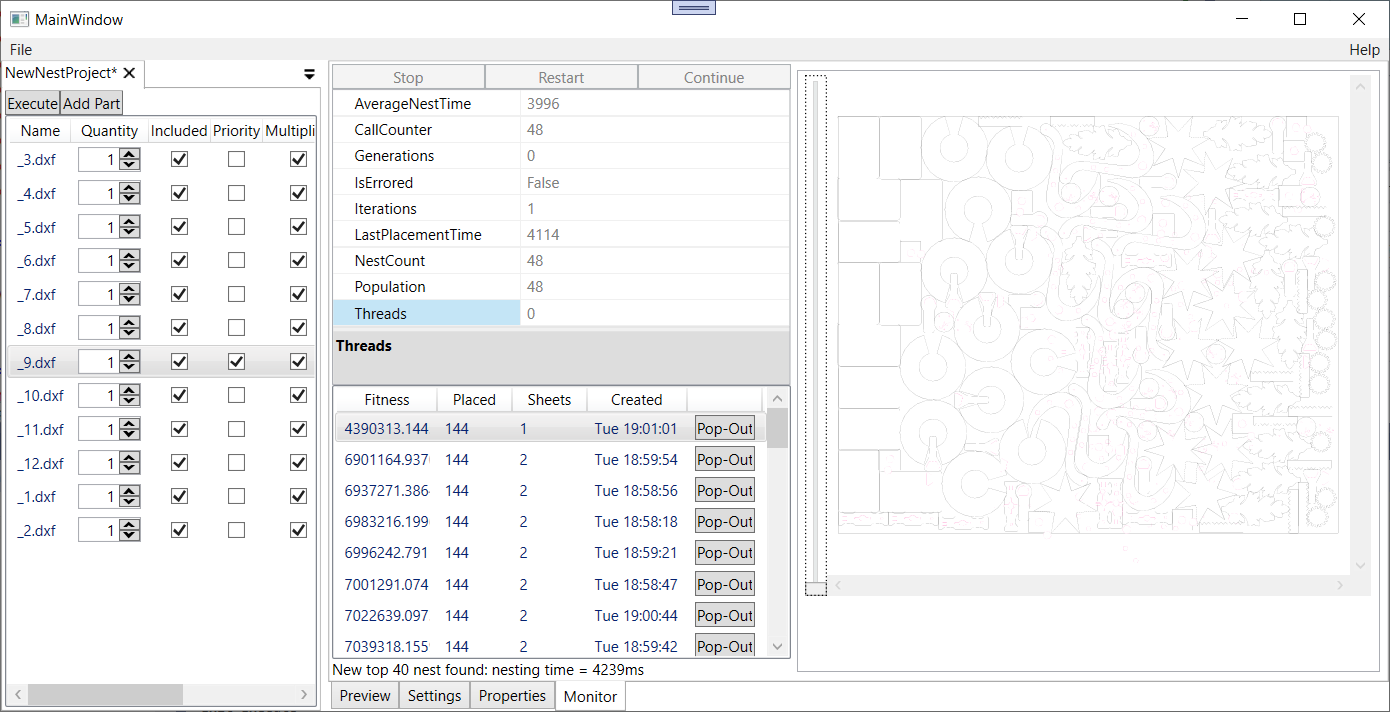
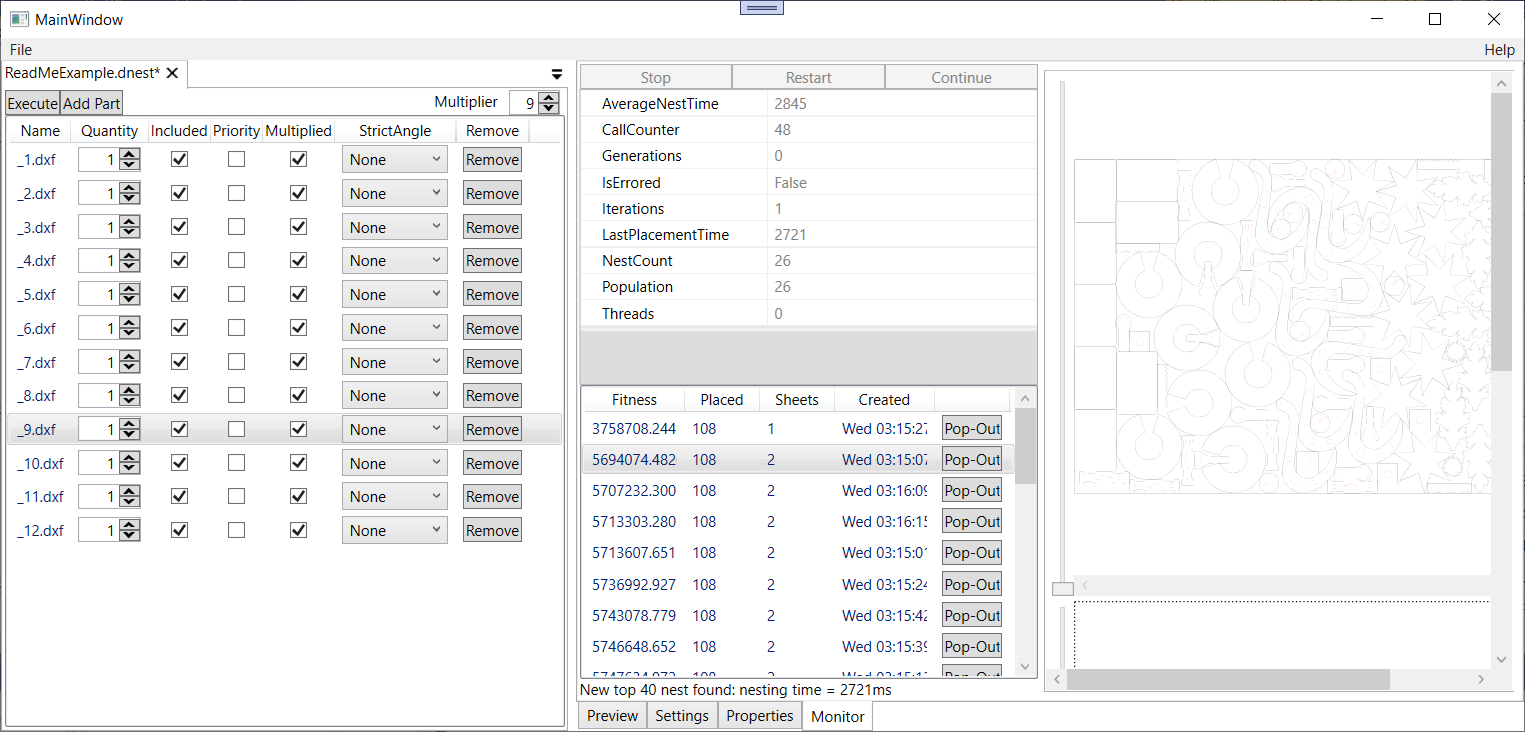
Update ReadMe images with spurious holes fixed.

diff --git a/README.md b/README.md
@@ -18,10 +18,7 @@ Felix was keen to keep true to the original DeepNest code in DeepNestPort...
 
 ...so DeepNestSharp was born. It completely rebuilds the UI using WPF on Net.Core
 and is a huge refactor which has paid some dividends but also introduced some 
-compromises and issues, some of which are outstanding... The eagle eyed among you
-may notice something odd going on with the holes in the Previews. Doesn't affect 
-the nest, only the UI; it's on the backlog... contributions would be 
-welcome!
+compromises and issues, some of which are outstanding... 
 
 DXF Import/Export: https://github.com/IxMilia/Dxf
 
